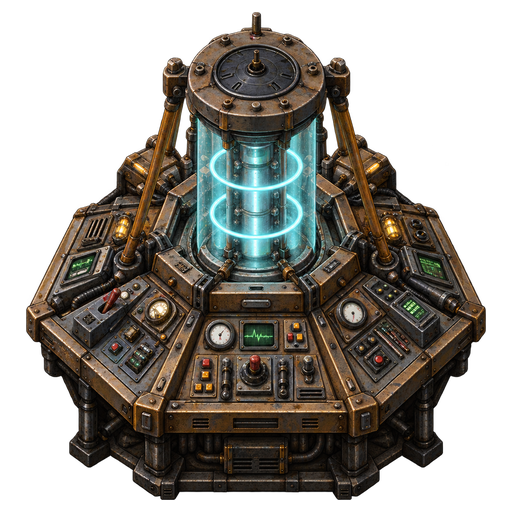
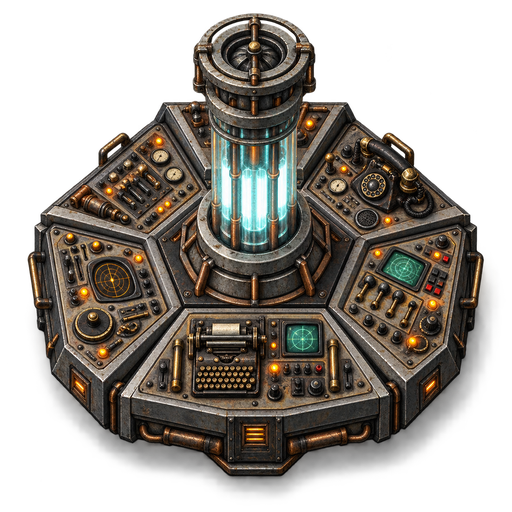
New console, glass floor and Eye of Harmony art with live glow
ChatGPT-generated art processed by tools/prepare_art.py: new console sprite,
round glass floor under it lit by the star below, star and containment ring
as separate sprites with the ring turning by repair progress. Additive glow
sprites give the rotor a mood colour (calm, flight, low power).

diff --git a/tools/prepare_art.py b/tools/prepare_art.py
@@ -1,0 +1,90 @@
+"""Turn raw generated art (art/round-1/chatgpt) into game-ready sprites in graphics/twelve.
+
+    python tools/prepare_art.py
+
+ChatGPT cut-outs leave red/green fringes in half-transparent pixels; those are recoloured
+to the glow colour. Outputs are square, centred and sized for the scales used in Lua.
+Pure Pillow, no numpy.
+"""
+import math
+import pathlib
+import sys
+
+from PIL import Image
+
+sys.stdout.reconfigure(encoding='utf-8')
+ROOT = pathlib.Path(__file__).resolve().parents[1]
+RAW = ROOT / 'art/round-1/chatgpt'
+OUT = ROOT / 'graphics/twelve'
+
+
+def load(name):
+    return Image.open(RAW / name).convert('RGBA')
+
+
+def square(img):
+    n = max(img.size)
+    out = Image.new('RGBA', (n, n))
+    out.paste(img, ((n - img.width) // 2, (n - img.height) // 2))
+    return out
+
+
+def save(img, name, size):
+    img.resize((size, size), Image.LANCZOS).save(OUT / name, optimize=True)
+    print(f'{name}: {size}x{size}')
+
+
+def process(img, fn):
+    """Apply fn(x, y, r, g, b, a) -> (r, g, b, a) to every pixel; r is distance from centre."""
+    px = img.load()
+    cx, cy = (img.width - 1) / 2, (img.height - 1) / 2
+    for y in range(img.height):
+        for x in range(img.width):
+            px[x, y] = fn(x, y, math.hypot(x - cx, y - cy), *px[x, y])
+    return img
+
+
+def tint(glow, r, g, b, a, below):
+    """Half-transparent pixels take the glow hue at their own brightness."""
+    if a >= below:
+        return r, g, b, a
+    k = min(1.0, max(0.35, max(r, g, b) / 255 * 1.15))
+    return int(glow[0] * k), int(glow[1] * k), int(glow[2] * k), a
+
+
+# Console: already a clean cut-out.
+save(square(load('console.png')), 'console.png', 512)
+
+# Star: keep the disc, rebuild a smooth corona fade so no fringe can show around it.
+star = load('star.png')
+disc, span = 0.29 * star.width, 0.24 * star.width
+
+
+def star_px(x, y, d, r, g, b, a):
+    if d <= disc:
+        return tint((255, 150, 60), r, g, b, a, 250)
+    # Outside the disc: a clean round corona (the generated one had a ragged, fringed cut-out).
+    fade = max(0.0, 1 - (d - disc) / span) ** 1.8
+    k = 0.62 + 0.38 * fade
+    return int(255 * k), int(150 * k), int(60 * k), int(235 * fade)
+
+
+save(square(process(star, star_px)), 'star.png', 1024)
+
+# Containment ring: drop the clipped stub at the top edge, clean the glow fringe.
+ring = load('ring.png')
+save(square(process(ring, lambda x, y, d, r, g, b, a: (0, 0, 0, 0) if y < 22 else tint((255, 145, 45), r, g, b, a, 235))),
+     'eye-ring.png', 1024)
+
+# Glass floor: keep the round panel only, with a soft edge.
+glass = load('glass-floor.png')
+edge = 0.437 * glass.width
+process(glass, lambda x, y, d, r, g, b, a: (r, g, b, int(255 * min(1.0, max(0.0, (edge - d) / 4)))))
+c, half = glass.width // 2, int(edge) + 4
+save(glass.crop((c - half, c - half, c + half, c + half)), 'glass-floor.png', 1024)
+
+# Soft white glow for additive light effects (tinted at runtime).
+glow = Image.new('RGBA', (256, 256))
+process(glow, lambda x, y, d, r, g, b, a: (255, 255, 255, int(255 * max(0.0, 1 - d / 127) ** 2.2)))
+glow.save(OUT / 'glow.png', optimize=True)
+print('glow.png: 256x256')

diff --git a/tools/scenes.py b/tools/scenes.py
@@ -95,7 +95,9 @@ try:
     ]
     r.lua("local f=Twelve.get(storage.cap_id) for _,s in pairs{f.surface,f.eye_surface} do s.request_to_generate_chunks({0,0},6) s.force_generate_chunk_requests() game.forces.player.chart(s,{{-200,-200},{200,200}}) end")
     time.sleep(3)
+    ONLY = [x for x in sys.argv[4:]]
     for name, surf, pos, zoom in shots:
+        if ONLY and name not in ONLY: continue
         print(name, r.lua(f"local f=Twelve.get(storage.cap_id) local ok,e=pcall(function() game.take_screenshot{{by_player=1,surface={surf},position={pos},zoom={zoom},resolution={{1600,1000}},show_gui=false,show_entity_info=false,daytime=0.5,path='scene-{name}.png'}} end) rcon.print(ok and 'ok' or tostring(e))"))
         time.sleep(1)
     time.sleep(4)
